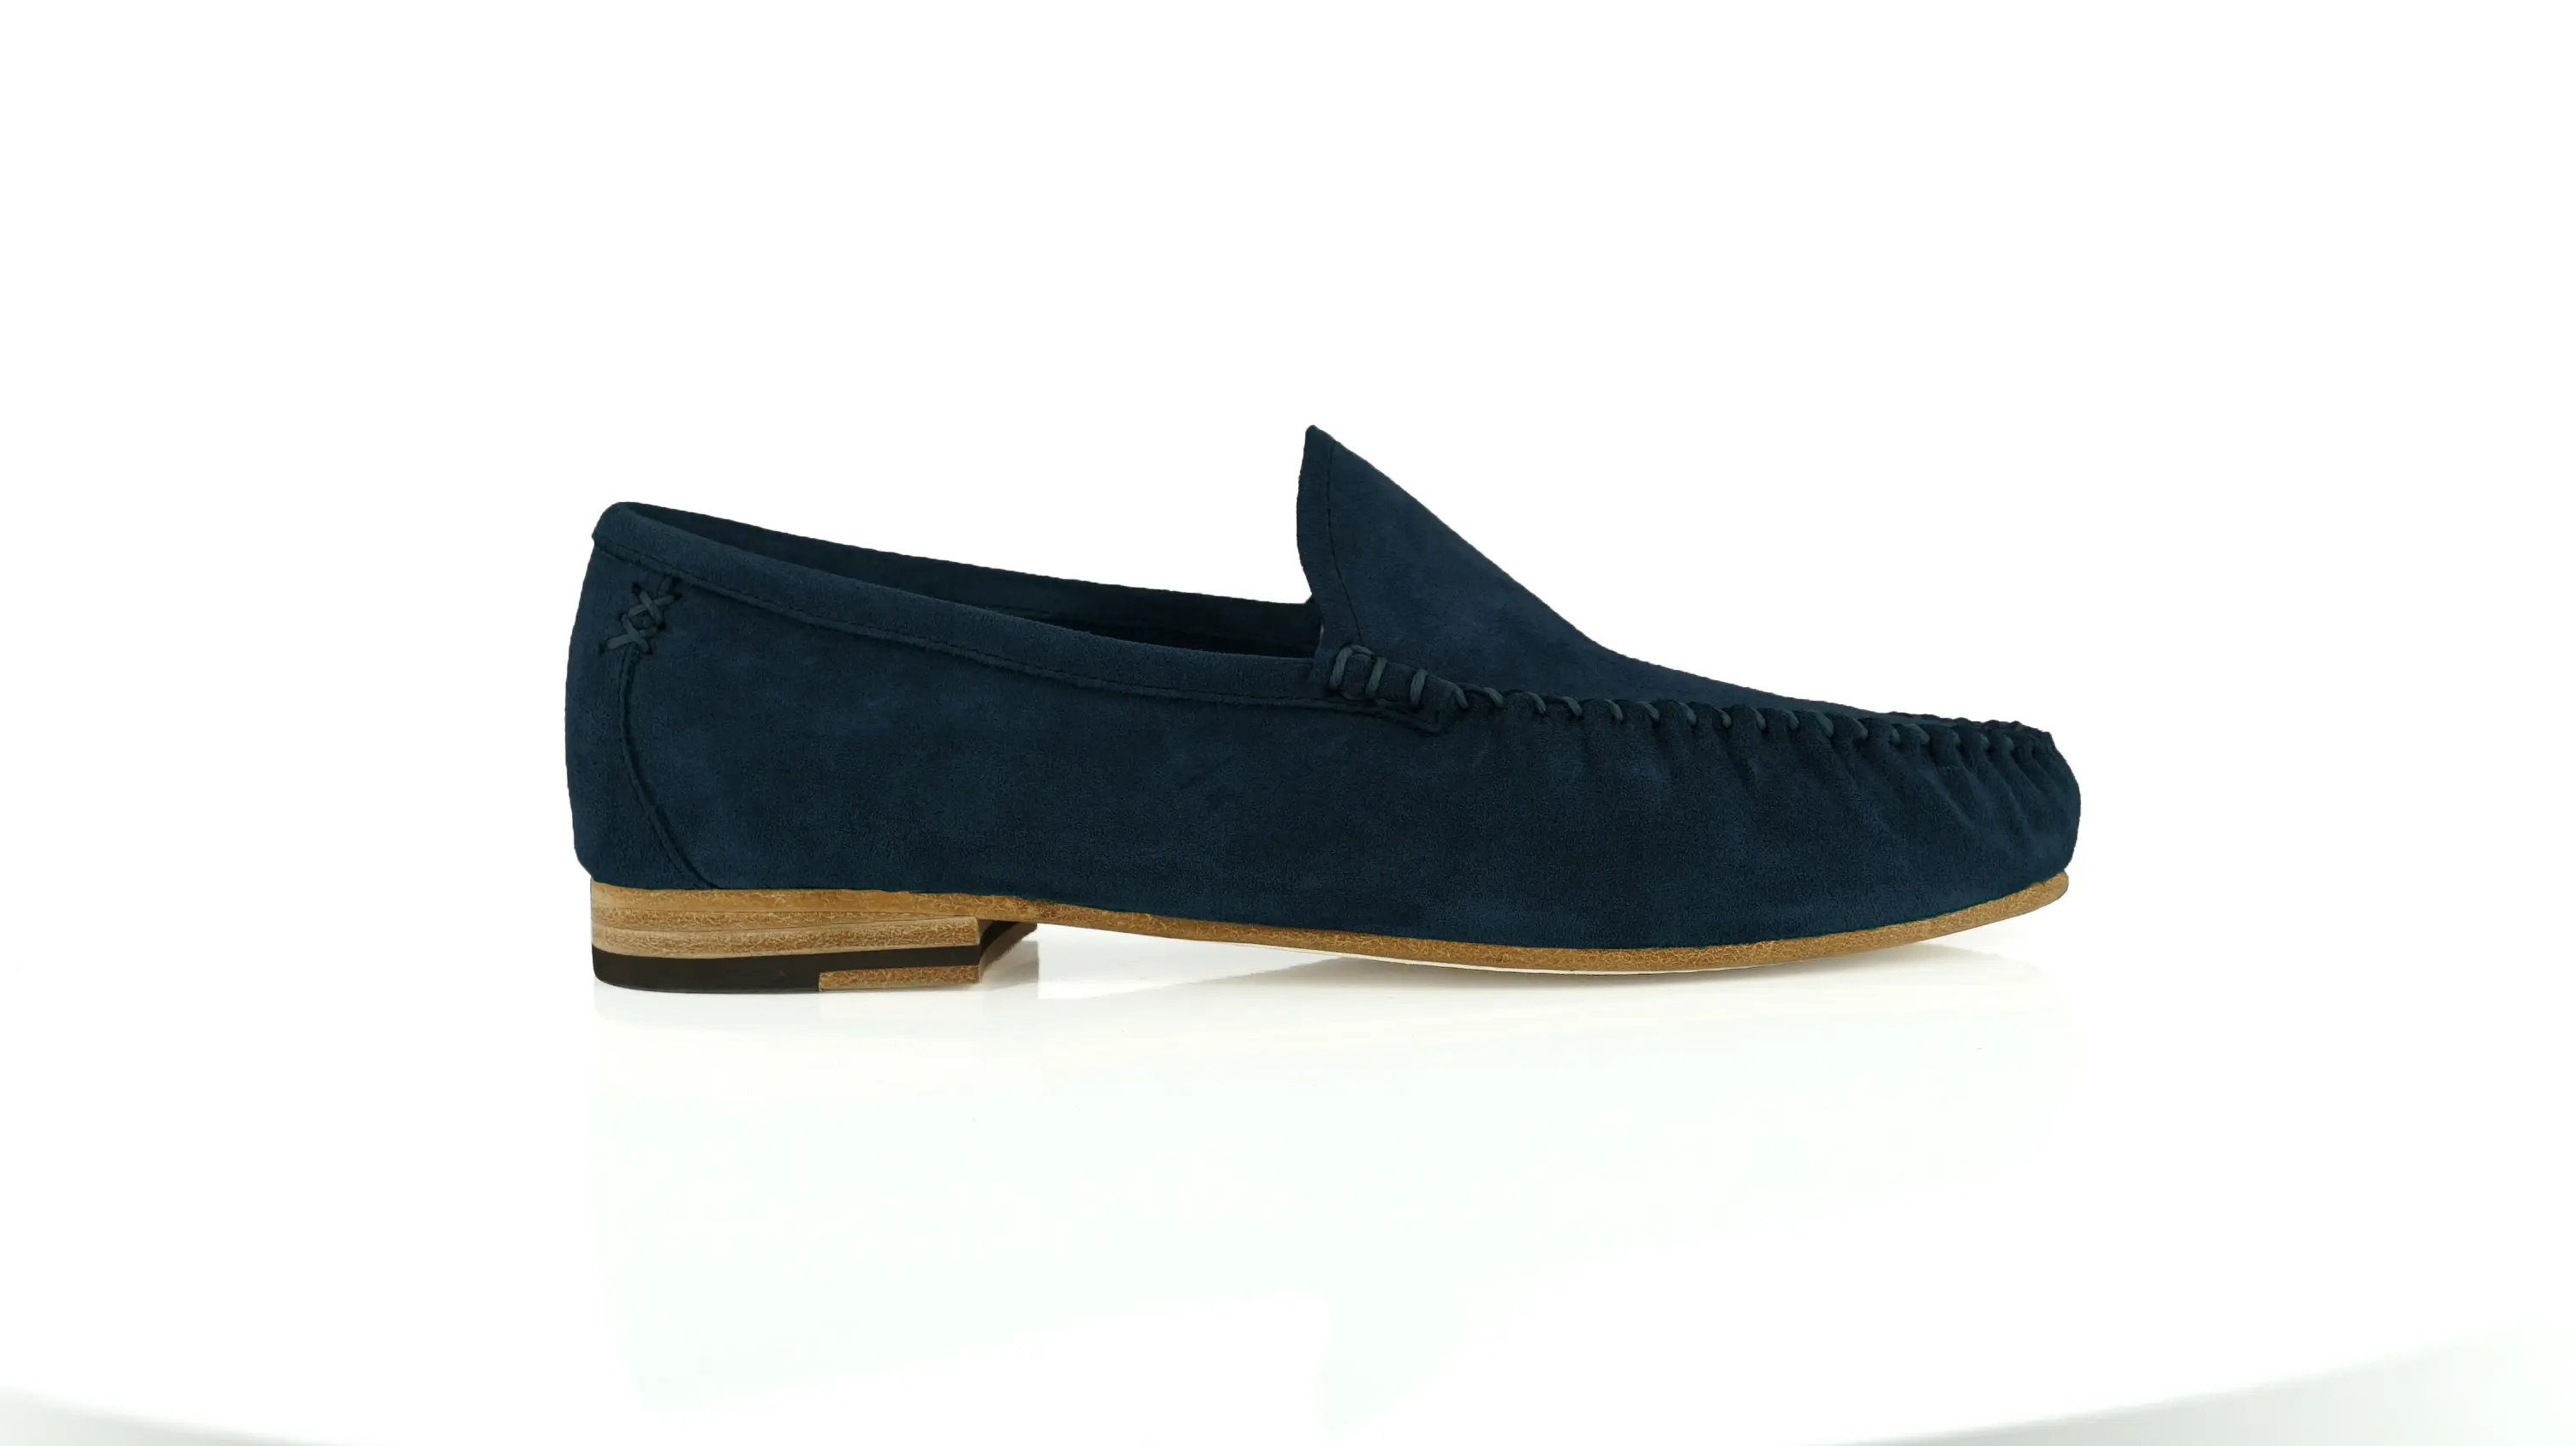
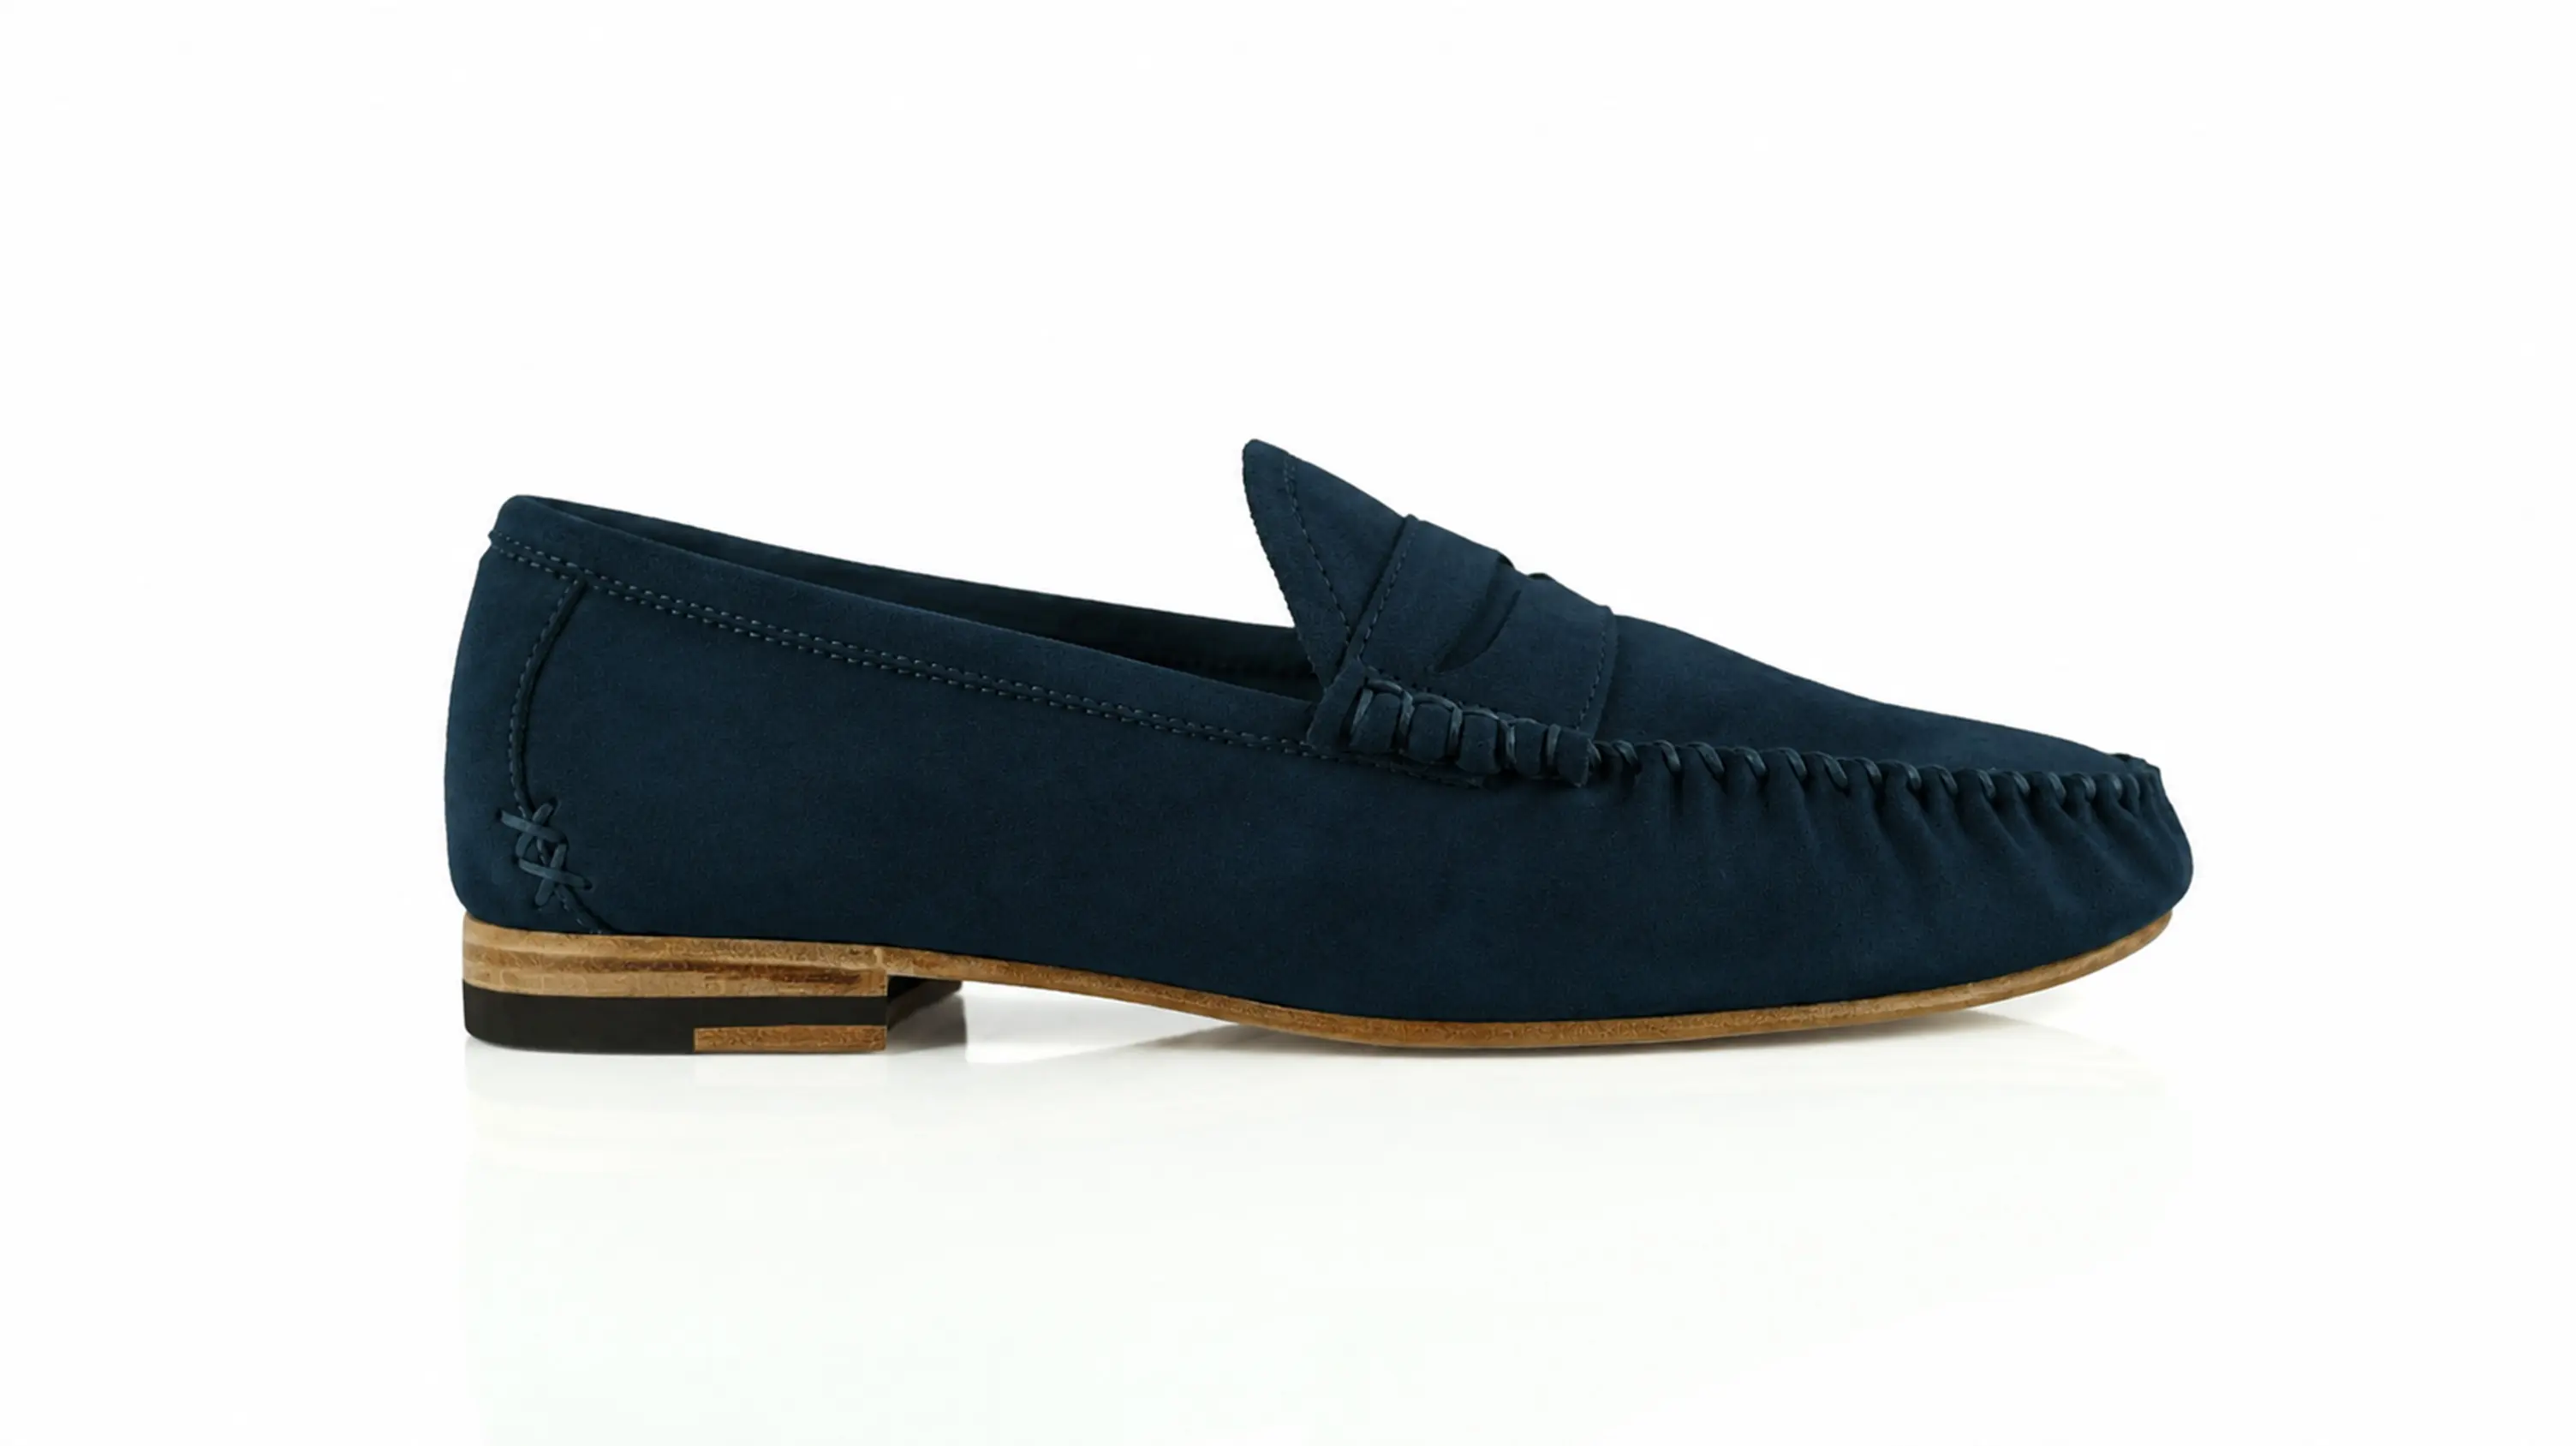
Cambio de foto y estilo Mallorca y Menorca

diff --git a/src/app/3-components/po-form/po-form.components.ts b/src/app/3-components/po-form/po-form.components.ts
@@ -358,7 +358,9 @@ export class PoFormComponent implements OnInit {
           variants: [
             { id: 'new-antibes-chesnut-suede', colorName: 'Chesnut Suede', hexColor: '#887152', imageUrl: '/productos/new-antibes/new-antibes-chesnut-suede.webp', sizes: this.generateSizes(), isSuede : true },
             { id: 'new-antibes-stucco-velour', colorName: 'Stucco Velour', hexColor: '#B1AC8E', imageUrl: '/productos/new-antibes/new-antibes-stucco-velour.webp', sizes: this.generateSizes(), isSuede : true },
+            /*
             { id: 'new-antibes-slate-blue', colorName: 'Slate Blue Suede', hexColor: '#323B48', imageUrl: '/productos/new-antibes/new-antibes-slate-blue.webp', sizes: this.generateSizes(), isSuede : true },
+            */
           ]
         },
         {
@@ -367,6 +369,7 @@ export class PoFormComponent implements OnInit {
           retailPrice: 225,
           description: '',
           variants: [
+            { id: 'new-mallorca-slate-blue', colorName: 'Slate Blue Suede', hexColor: '#323B48', imageUrl: '/productos/new-ibiza/new-ibiza-slate-blue.webp', sizes: this.generateSizes(), isSuede : true },
             { id: 'new-mallorca-ivory-velour', colorName: 'Ivory Velour', hexColor: '#ECE9D6', imageUrl: '/productos/new-ibiza/new-ibiza-ivory.webp', sizes: this.generateSizes(), isSuede : true },
             { id: 'new-mallorca-autum-gold', colorName: 'Autum Calf Gold', hexColor: '#6B4424', imageUrl: '/productos/new-ibiza/new-ibiza-autum-gold.webp', sizes: this.generateSizes(), isSuede : true },
           ]
@@ -377,7 +380,9 @@ export class PoFormComponent implements OnInit {
           retailPrice: 225,
           description: '',
           variants: [
+            /*
             { id: 'new-amalfi-slate-blue', colorName: 'Slate Blue Suede', hexColor: '#1C3240', imageUrl: '/productos/new-ibiza/new-ibiza-slate-blue.webp', sizes: this.generateSizes(), isSuede : true },
+            */
             { id: 'new-amalfi-chestnut', colorName: 'Chestnut Suede', hexColor: '#4D2E21', imageUrl: '/productos/new-ibiza/new-ibiza-chestnut-suede.webp', sizes: this.generateSizes(), isSuede : true },
             { id: 'new-amalfi-asparagus', colorName: 'Asparagus', hexColor: '#5D5B31', imageUrl: '/productos/new-ibiza/new-ibiza-asparagus.webp', sizes: this.generateSizes(), isSuede : true },
           ]